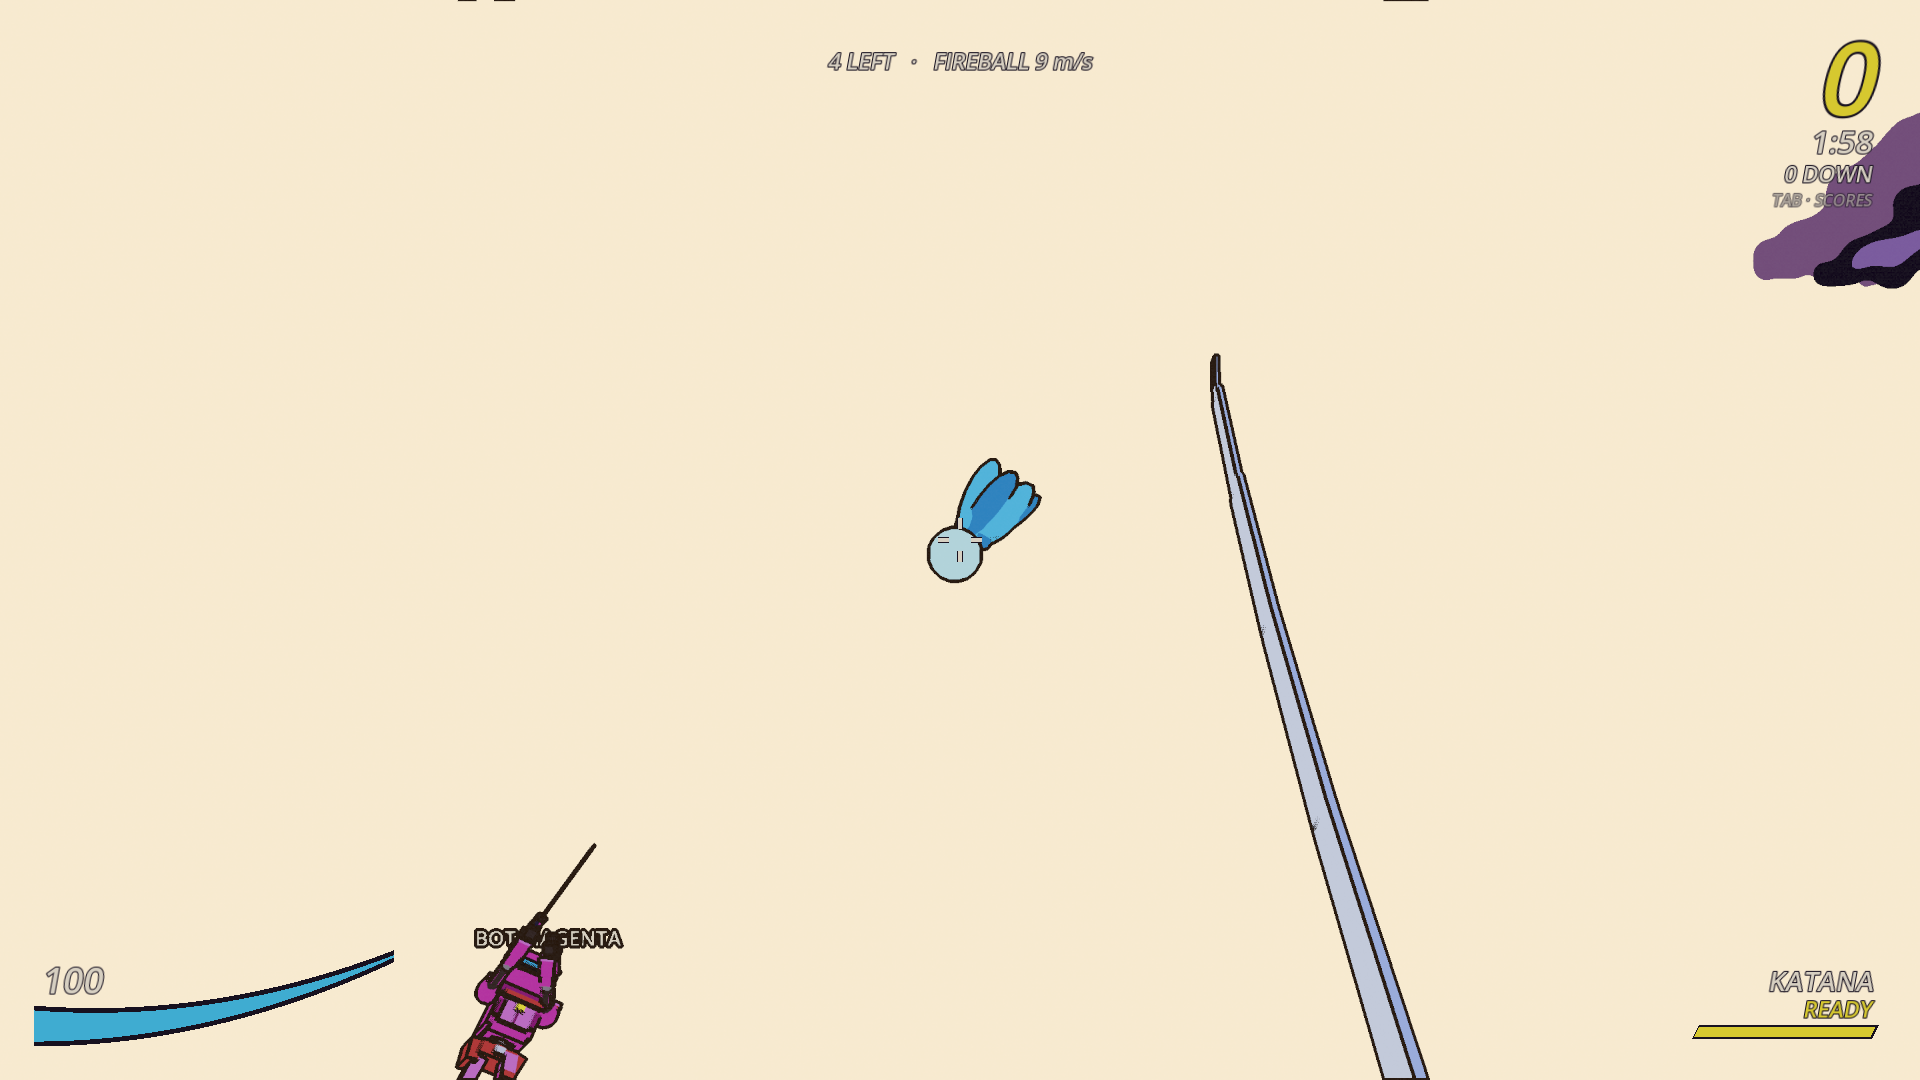
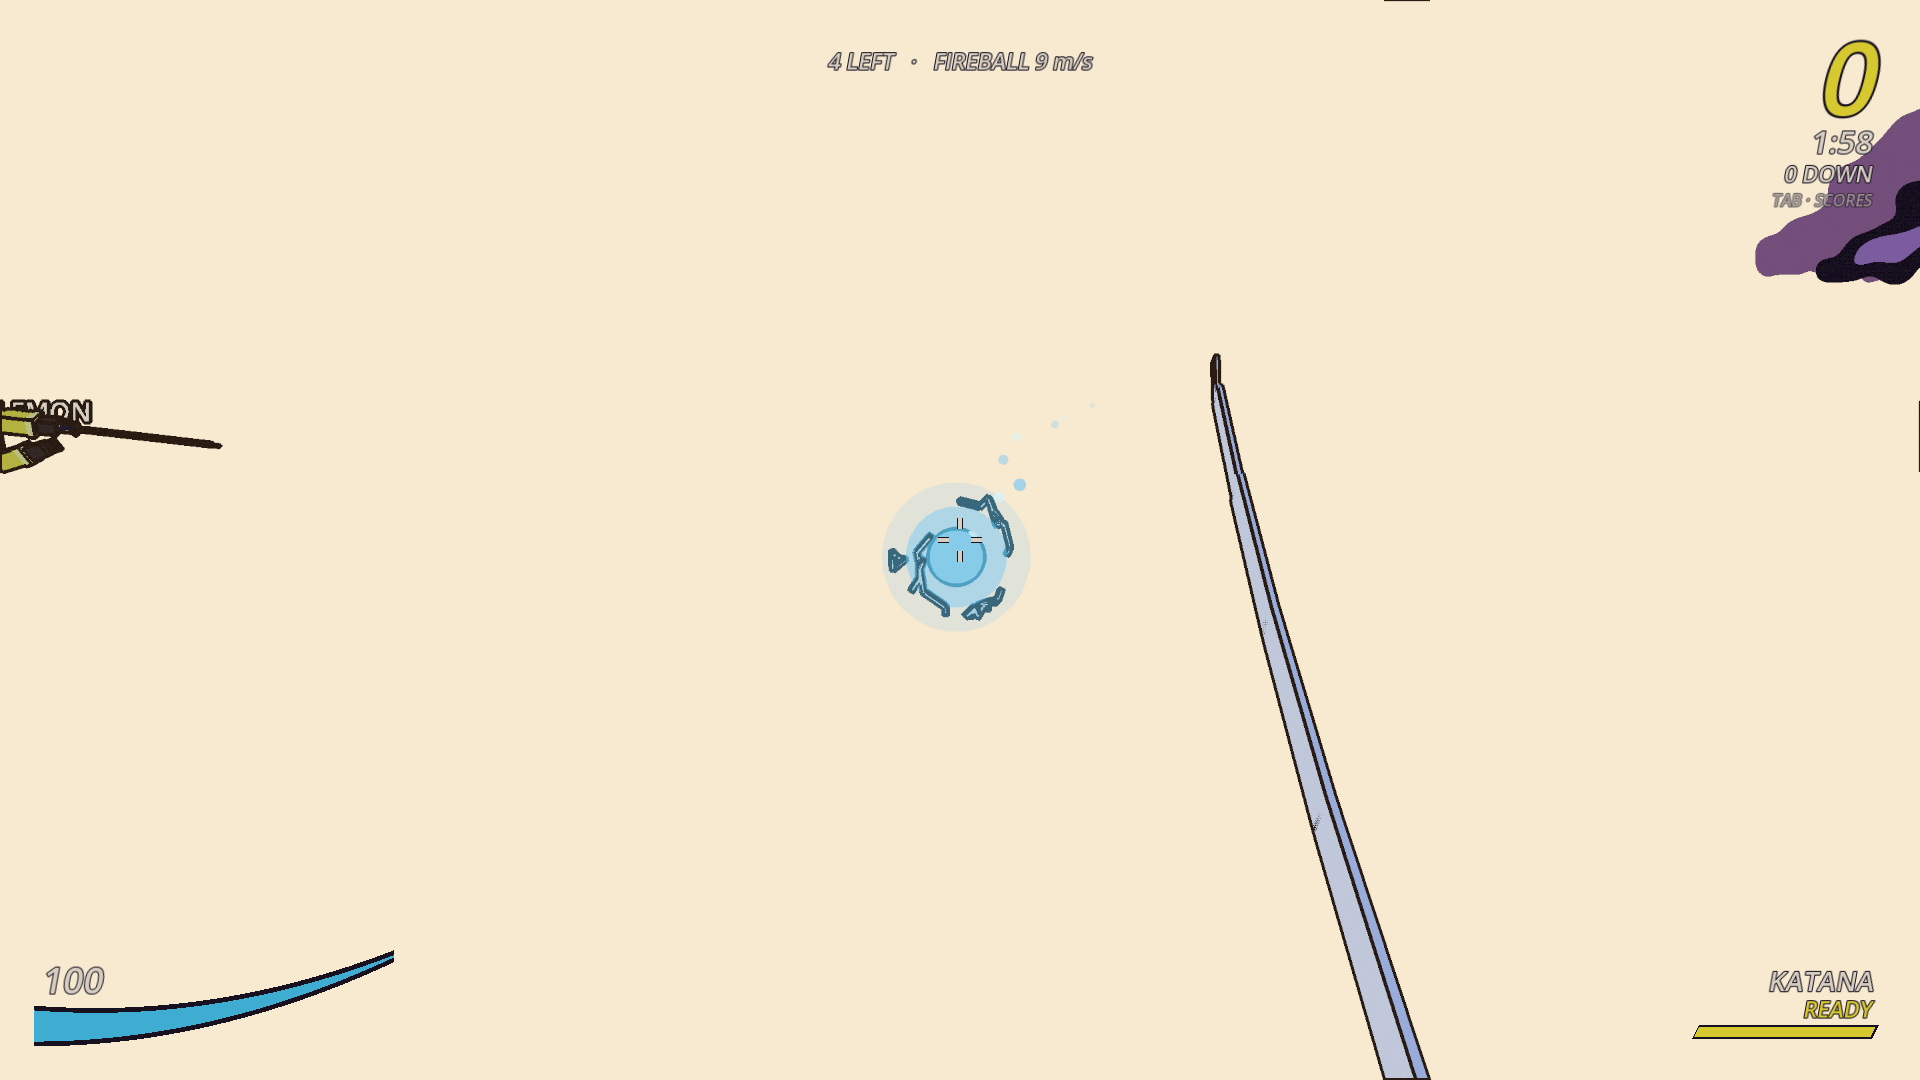
The fireball is an electrifying orb, the same light blue
Sean's note: a circular orb with an aura of a similar colour, electrifying,
the colour kept. FireballView rebuilt: a sphere in two translucent aura
shells of the same blue that pulse and swell with the speed level, ten arcs
in the core's pale blue re-laid over the aura every few frames and living
50-120 ms each (a pool of thin boxes, nothing built in flight), a flickering
light and a spark trail; the flame tongues are gone. Bursts, sounds and the
hum unchanged. fireball_hover.png and fireball_platform.png retaken.

diff --git a/DECISIONS.md b/DECISIONS.md
@@ -207,3 +207,4 @@ Append-only. One line per assumption: date, the decision, the reason. Newest at 
 - 2026-09-24 — The final-kill cam replays the ball: every peer keeps its position per tick (300 ticks, like the bodies) and `killcam_place(pt)` puts the view there; `killcam_fire("fireball")` bursts the ball and plays its hit instead of a tracer and a gunshot; the killer's katana is the ghost weapon with its guard replayed (`Player._record_replay` stores the parry progress for a melee slot where the guns store the scope-in). `--screenshot_event=parry` arms on the local reflect press. Sounds: `katana_swing`, `katana_parry`, `fireball_launch`, `fireball_reflect`, `fireball_hit` and the looping `fireball_hum` on the ball (pitch up with the speed), all synthesised. The pipeline warm-up now draws an unshaded opaque material and an omni light (the ball's; the first omni light in the game). The reflect's burst is 0.5 m: at 0.9 m, a metre from the reflector's eye, it filled the frame.
 - 2026-09-24 — Measured, FIREBALL at 1080p, scale 1.5, host + 3 bots on the 5090 (`--perf`, 30 s): frame 6.18 ms mean / 8.00 p95, GPU 0.69 mean / 1.06 p95, render CPU 0.21; PACING median 6 ms, 29 frames over 1.5× (0.9 %), 0 over 2×, longest 12 ms, 0 pipelines compiled while playing. `tools/check_all.sh` green: 94 tests, 108 scripts, determinism identical to the byte, the board match drawing LAST STAND then FIREBALL with no warnings. Frames: `fireball_hover.png`, `fireball_platform.png`, `fireball_reflect.png`, `fireball_briefing.png`, `fireball_out.png`, `fireball_killcam.png`. His verdict on the look, the feel and the name is pending.
 - 2026-09-25 — Sean: "make the map 2x bigger and have the flameball start at a higher altitude and decrease gravity by 50%". `tuning/fireball.json`: the platform's radius 17 → 34 m (68 m across; the spawn ring 11 → 22 m; the rim's dashes are one every 3 m of rim now, 68 of them, and the briefing's vantage scales with the radius), the ball's spawn height 6 → 12 m, `gravity_multiplier` 0.5 → 0.25 (3.125 m/s²: the same 6.1 m/s jump goes 5.95 m and hangs 3.9 s; the fall past y = −14 takes 3 s). The ball's speeds are untouched (9 m/s crosses the platform in 7.5 s now; his call if that is slow). Headless, seed 7: rallies to 15 m/s, nobody fell, 94 tests, no warnings. `fireball_hover.png`, `fireball_briefing.png` and `fireball_platform.png` retaken.
+- 2026-09-25 — Sean: "change the fireball into a circular orb with a aura around it thats a similar color. i want it to be an electrifying orb, keep it the same color." `FireballView` is rebuilt: the orb (a sphere, r 0.31 m, the pale `fire_core`, the one part that casts a shadow), an inner aura shell (r 0.56, `fire` at alpha 0.38) and an outer one (r 0.78, `fire_dark` at 0.16), both pulsing and swelling 5 % per reflect level, eight arcs in the core's pale blue re-laid over the aura every few frames and living 40–110 ms each (a pool of thin boxes, nothing built in flight), the light flickering, and a trail of small sparks instead of the puffs; the flame tongues are gone. The same three palette blues; the bursts, the sounds and the hum are as they were.

diff --git a/CLAUDE.md b/CLAUDE.md
@@ -79,7 +79,7 @@ that travels with the repo.
   FIREBALL (2026-09-24) is his Genji Ball, built to his note item by item: a large dark grey round platform
   everyone spawns on evenly spaced (r 17 m, doubled to 34 m with the ball starting at 12 m on his 2026-09-25 note), the board's pink sky, a quarter of the shared gravity (half on 2026-09-24, "so we can jump higher", halved again 2026-09-25), a katana
   held in both hands (a new weapon, model "melee": RIGHT CLICK reflects, LEFT CLICK swings and hits nothing),
-  a light-blue fireball that appears after the 3 s countdown, homes on a player, kills on touch, reflects
+  a light-blue fireball (since 2026-09-25 a round orb in an aura of the same blue with arcs over it, "an electrifying orb", the flames gone on his word) that appears after the 3 s countdown, homes on a player, kills on touch, reflects
   off an open guard toward whoever the crosshair is nearest to and gets faster every reflect; one life,
   last one standing. Numbers in `tuning/fireball.json`; rules in `MINIGAMES.md` §3. His look verdict is pending. Every minigame opens with the
   briefing (name, live map, rules, controls, READY / FORCE START) and ends with the hold: ROUND OVER,

diff --git a/MINIGAMES.md b/MINIGAMES.md
@@ -59,7 +59,8 @@ Sean's Genji Ball (2026-09-24). Every number is in `tuning/fireball.json`; the k
   the swing is not.
 - **The ball**: appears 12 m over the centre (6 m until 2026-09-25) when the GET READY countdown ends, hovers 0.75 s, then
   flies at a player drawn from the living (seeded) at `speed_start_m_s` 9, homing on their chest
-  (`aim_height_m` 1.1) at `homing_turn_deg_s` 160. Its light-blue fire is drawn on every peer from
+  (`aim_height_m` 1.1) at `homing_turn_deg_s` 160. It is a light-blue orb in an aura of the same blue with arcs flickering over it (Sean,
+  2026-09-25: "an electrifying orb, keep it the same color"; flame tongues until then), drawn on every peer from
   the host's state (sent every tick, unreliable, dead-reckoned between), its events (spawn,
   launch, reflect, hit, vanish) reliable for the look and the sounds.
 - **The reflect**: a ball passing through an open window, within `parry_range_m` 3.2 of the eye and

diff --git a/STATUS.md b/STATUS.md
@@ -979,6 +979,11 @@ at 12 m instead of 6, gravity a quarter of the shared value (3.125 m/s²: a 5.95
 the air). Speeds untouched. 94 tests green; a headless match with 3 bots rallied to 15 m/s with
 nobody off the edge; `fireball_hover.png`, `fireball_briefing.png`, `fireball_platform.png` retaken.
 
+His second note: the fireball is an **electrifying orb** now, the same light blue: a sphere in two
+translucent aura shells that pulse, eight arcs flickering over the aura (a pool of thin boxes
+re-laid every few frames), the light flickering, a spark trail. The flame tongues are gone.
+`fireball_hover.png` and `fireball_platform.png` retaken.
+
 ### Next
 1. Sean plays the big platform: the ball's 9 m/s start across 68 m, the floaty jump, the bots.
 2. Unchanged: session 15's list (the katana's look, the reflect online, the name).
